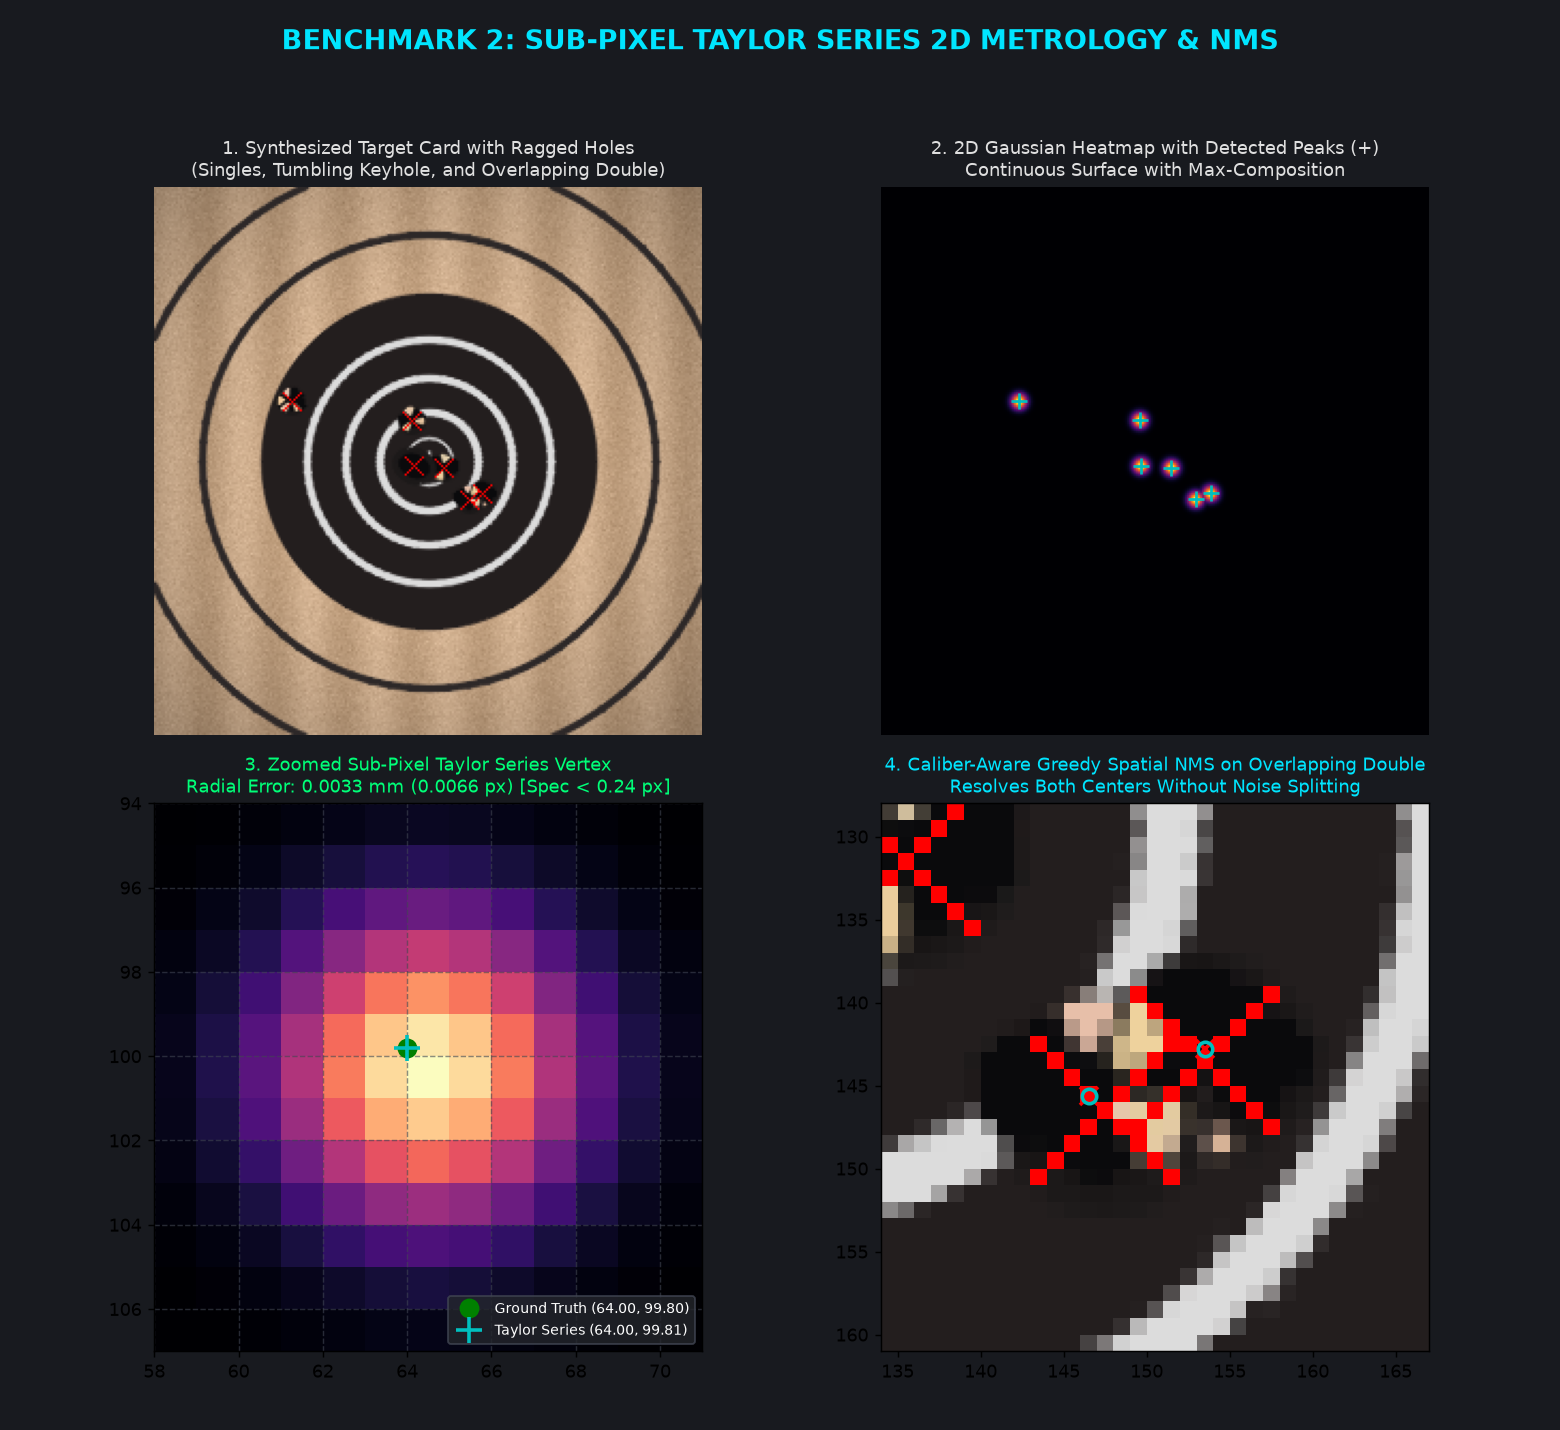
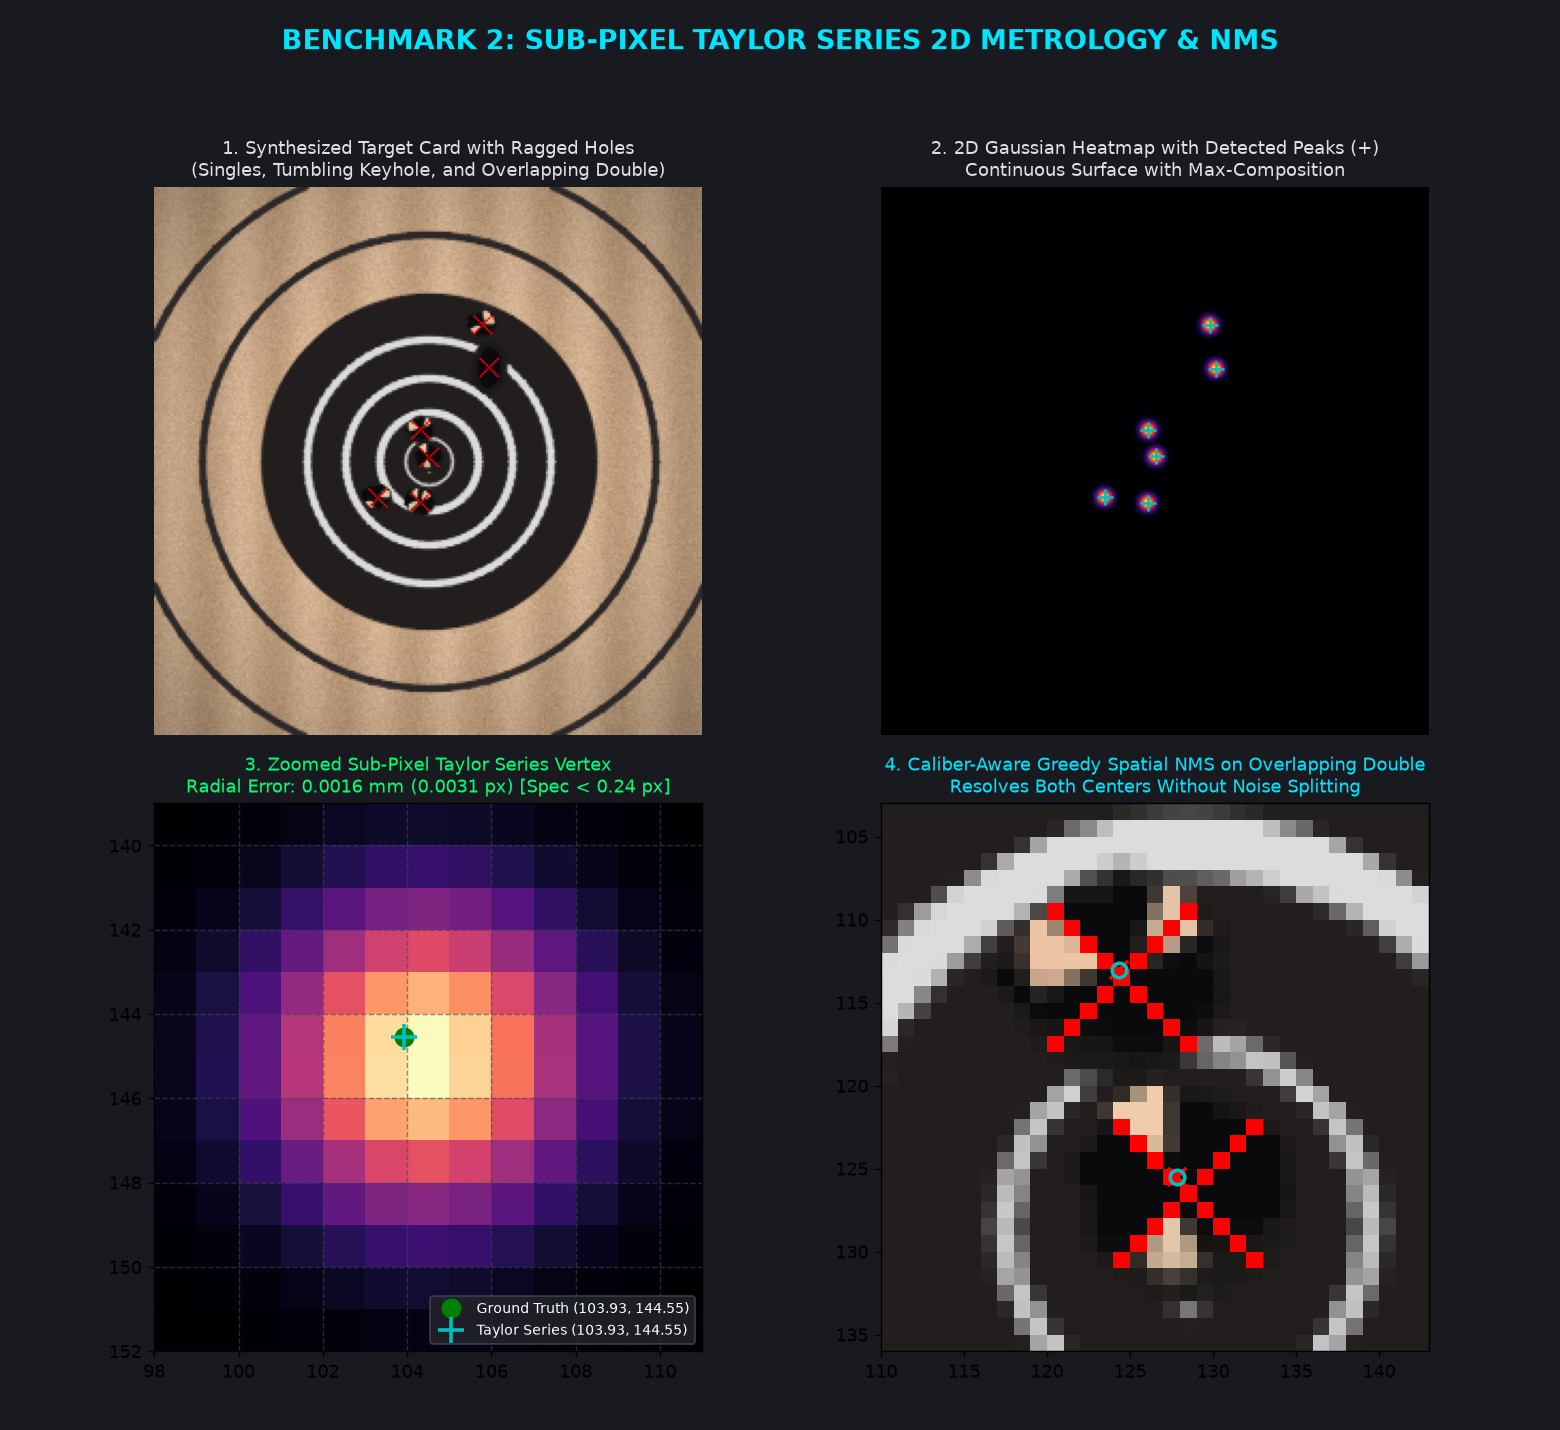
fix(rectifier): dilate specular glare mask to eliminate silver inpainting fringe

diff --git a/src/target_scorer/geometry/rectifier.py b/src/target_scorer/geometry/rectifier.py
@@ -98,7 +98,10 @@ class TargetRectifier:
         # Specular glares are high brightness (V > 230) and low saturation (S < 45) inside black bull
         glare_mask = ((v_channel > 230) & (s_channel < 45) & (dark_mask > 0)).astype(np.uint8) * 255
         if cv2.countNonZero(glare_mask) > 10:
-            return cv2.inpaint(bgr, glare_mask, inpaintRadius=3, flags=cv2.INPAINT_NS)
+            # Dilate mask to consume anti-aliased perimeter pixels and restore solid dark ink
+            kernel = cv2.getStructuringElement(cv2.MORPH_ELLIPSE, (5, 5))
+            dilated_mask = cv2.dilate(glare_mask, kernel, iterations=2)
+            return cv2.inpaint(bgr, dilated_mask, inpaintRadius=5, flags=cv2.INPAINT_TELEA)
         return bgr
 
     def _segment_bullseye_contour(self, raw_bgr: np.ndarray) -> Tuple[Optional[np.ndarray], float]:
